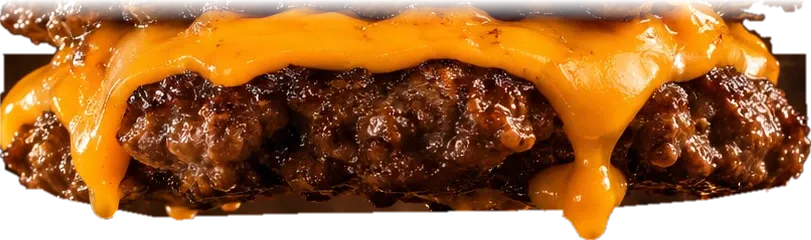
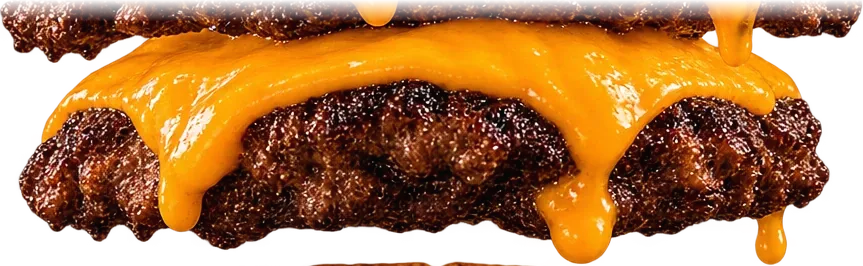
Hero usa a nova foto explodida: 6 camadas separadas
- Fatia "Hambúrguer Smash Explodido Gourmet.png" (já recortada) em pão de baixo, 2 carnes com cheddar, bacon, cebola e pão de cima com maionese
- Nova sequência de queda e etiquetas para as 6 camadas
- Script prepare-burger-layers.mjs reescrito para a nova imagem

diff --git a/components/hero/FotoBurger.tsx b/components/hero/FotoBurger.tsx
@@ -20,24 +20,24 @@ export type Input = { px: number; py: number; dx: number; drag: boolean };
 export type Stage = { labels: (HTMLElement | null)[]; lines: (SVGLineElement | null)[]; w: number[] };
 
 /* ------------------------------------------------------------ camadas (ordem de baixo para cima) */
-const ORDEM = ["pao-baixo", "carne-baixo", "carne-cima", "bacon-cebola", "pao-cima"] as const;
+const ORDEM = ["pao-baixo", "carne-baixo", "carne-cima", "bacon", "cebola", "pao-cima"] as const;
 type Nome = (typeof ORDEM)[number];
 
 /** Quando cada camada é solta (s). Tudo termina em ~5 s. */
-const T: Record<Nome, number> = { "pao-baixo": 0.0, "carne-baixo": 0.85, "carne-cima": 1.65, "bacon-cebola": 2.5, "pao-cima": 3.55 };
+const T: Record<Nome, number> = { "pao-baixo": 0.0, "carne-baixo": 0.8, "carne-cima": 1.55, bacon: 2.3, cebola: 3.0, "pao-cima": 3.75 };
 const G = 40; // gravidade
 
 /* Etiquetas: aparecem quando a camada pousa, ligadas por uma linha fina laranja. */
 export const LABELS = [
-  { txt: "PÃO BRIOCHE", cam: "pao-baixo", fy: 0.6, side: 1, desktop: true },
-  { txt: "SMASH 120G", cam: "carne-baixo", fy: 0.42, side: 1, desktop: false },
-  { txt: "CHEDDAR", cam: "carne-baixo", fy: 0.3, side: -1, desktop: true },
-  { txt: "DUPLO SMASH", cam: "carne-cima", fy: 0.7, side: 1, desktop: true },
-  { txt: "CHEDDAR DUPLO", cam: "carne-cima", fy: 0.32, side: -1, desktop: false, dyM: 14 },
-  { txt: "BACON", cam: "bacon-cebola", fy: 0.72, side: 1, desktop: false },
-  { txt: "CEBOLA CARAMELIZADA", cam: "bacon-cebola", fy: 0.22, side: -1, desktop: false, dyM: -16 },
-  { txt: "MAIONESE DA CASA", cam: "pao-cima", fy: 0.8, side: -1, desktop: true },
-  { txt: "PÃO BRIOCHE", cam: "pao-cima", fy: 0.4, side: 1, desktop: false },
+  { txt: "PÃO BRIOCHE", cam: "pao-baixo", fy: 0.55, side: 1, desktop: true },
+  { txt: "SMASH 120G", cam: "carne-baixo", fy: 0.55, side: 1, desktop: false },
+  { txt: "CHEDDAR", cam: "carne-baixo", fy: 0.25, side: -1, desktop: true },
+  { txt: "DUPLO SMASH", cam: "carne-cima", fy: 0.6, side: 1, desktop: true },
+  { txt: "CHEDDAR DUPLO", cam: "carne-cima", fy: 0.25, side: -1, desktop: false, dyM: 14 },
+  { txt: "BACON", cam: "bacon", fy: 0.6, side: 1, desktop: false },
+  { txt: "CEBOLA CARAMELIZADA", cam: "cebola", fy: 0.55, side: -1, desktop: false, dyM: -16 },
+  { txt: "MAIONESE DA CASA", cam: "pao-cima", fy: 0.62, side: -1, desktop: true },
+  { txt: "PÃO BRIOCHE", cam: "pao-cima", fy: 0.3, side: 1, desktop: false },
 ] as const;
 
 /* ------------------------------------------------------------ física */
@@ -99,7 +99,7 @@ export default function FotoBurger({ ctl, input, stage, mobile }: Props) {
   const texs = useTexture(ORDEM.map((n) => `/img/burger/${n}.webp`));
   const brilho = useMemo(() => spriteTexture(), []);
 
-  const altura = mobile ? 4.5 : 3.0; // altura do hambúrguer em unidades do mundo
+  const altura = mobile ? 4.7 : 3.2; // altura do hambúrguer em unidades do mundo
   const k = altura / LH;
   const largura = LW * k;
 
@@ -184,7 +184,7 @@ export default function FotoBurger({ ctl, input, stage, mobile }: Props) {
     const Hv = mobile ? 5.5 / aspect : Math.max(6.3, 8.6 / aspect);
     const cam = camera as THREE.PerspectiveCamera;
     const dist = Hv / 2 / Math.tan((cam.fov * Math.PI) / 360);
-    const ty = mobile ? -1.1 : 0.14;
+    const ty = mobile ? -1.15 : 0.1;
     cam.position.set(0, ty, dist);
     cam.lookAt(0, ty, 0);
     cam.updateMatrixWorld();
